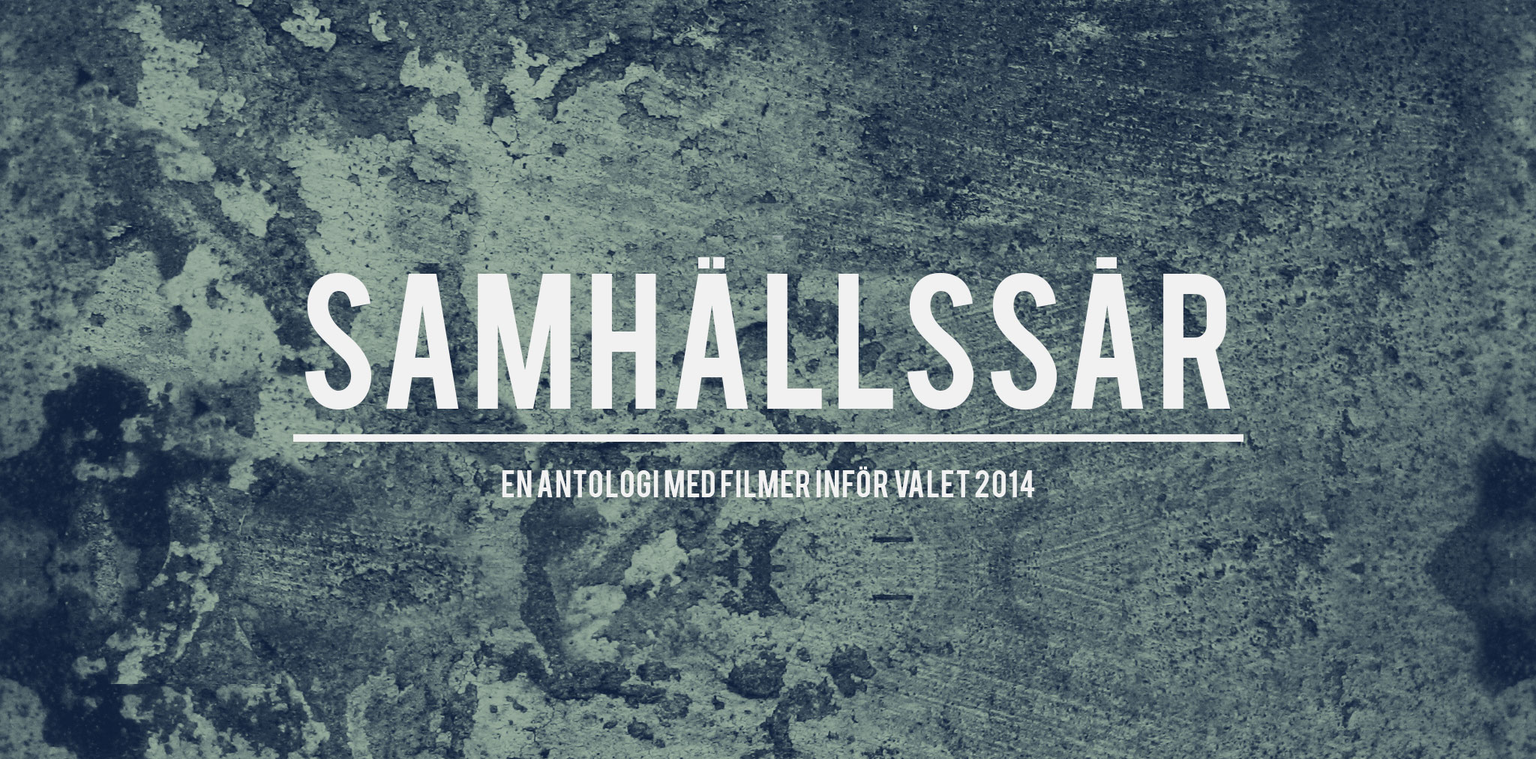
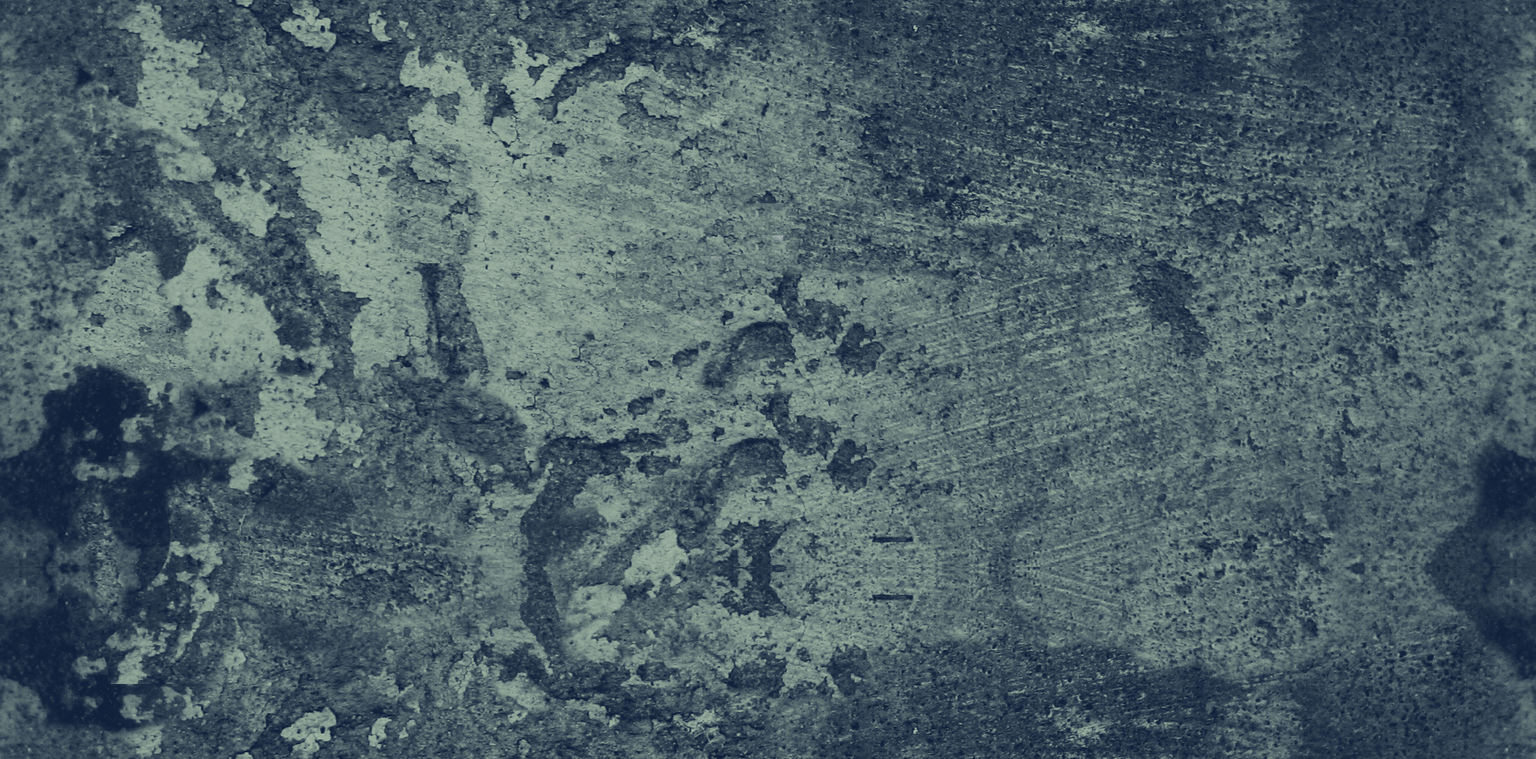
Fixed the header
Header is fixed for now.

Changed region(s): [[0.1875, 0.337, 0.8125, 0.582], [0.0, 0.8271, 1.0, 1.0], [0.3125, 0.6126, 0.6875, 0.6739]]

diff --git a/public/css/style.css b/public/css/style.css
@@ -72,11 +72,17 @@ nav a {
 .banner {
     position: relative;
     margin-bottom: -2px;
+    background-image: url(../img/imagetest.jpg);
+    background-size: 100%;
+    height: 100vh; 
 }
 
 .banner img {
-    width: 100%;
-    height: 100vh;
+  max-width: 100%;
+  margin: 0 auto;
+  padding-top: 150px;
+  padding-left: 5%;
+  padding-right: 5%;
 }
 
 /* CONTENT

diff --git a/application/views/_templates/header.php b/application/views/_templates/header.php
@@ -10,7 +10,7 @@
 	  	</nav>
 
 		<div class="banner">
-			<img src="public/img/imagetest.jpg">
+			<img src="public/img/text.png">
 		</div>
 
 	</header>
